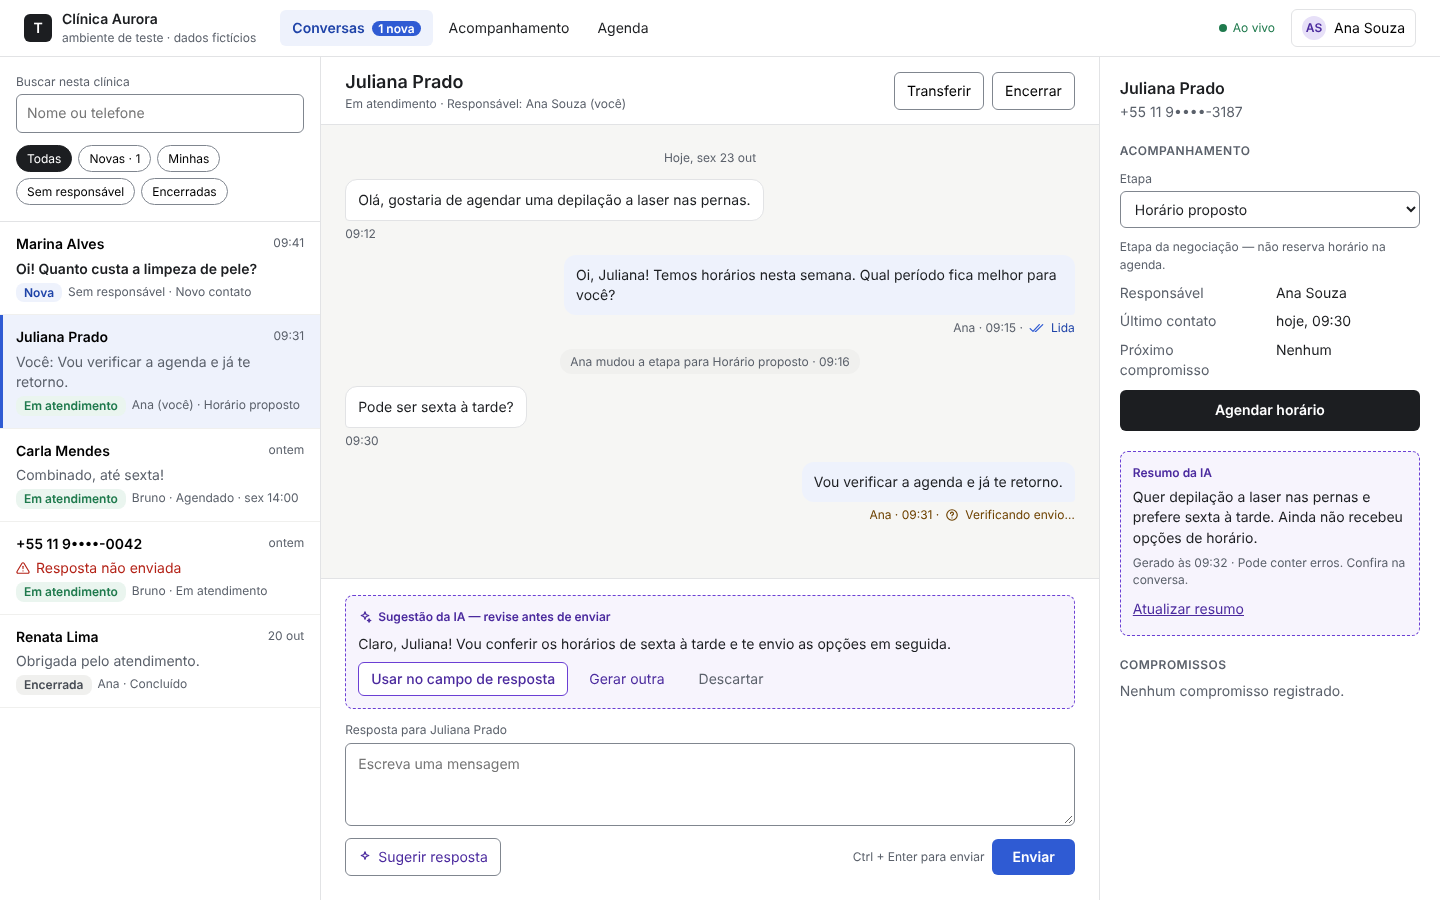
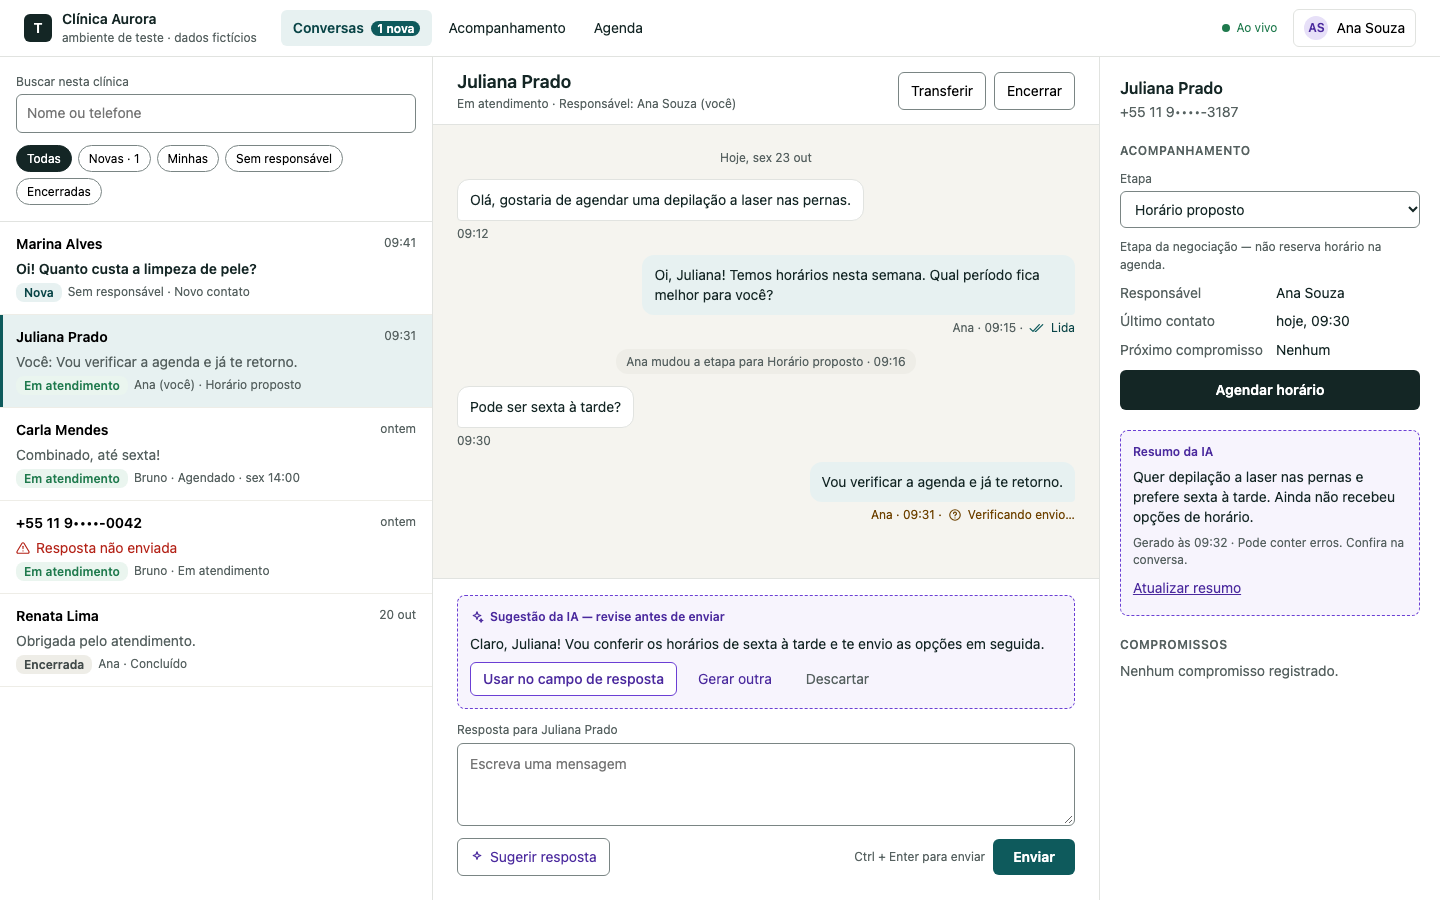
feat(ui): coluna de conversas no desktop com 30% da janela (360–520 px)
Medido no WhatsApp Web (lista em 30%, 518 px a 1728 px). Substitui os
360 px fixos; atualiza DEC-068, ux-ui.md, mock e preview Main.

diff --git a/docs/design/desktop/Main.dc.html b/docs/design/desktop/Main.dc.html
@@ -37,7 +37,7 @@ button:focus-visible,a:focus-visible,textarea:focus-visible,select:focus-visible
 
 <main style="flex: 1; display: flex; flex-wrap: wrap; min-height: 0">
 
-<section aria-label="Lista de conversas" style="flex: 1 1 320px; max-width: 360px; background: #FFFFFF; border-right: 1px solid #E1E3E0; display: flex; flex-direction: column">
+<section aria-label="Lista de conversas" style="flex: 0 0 30%; min-width: 360px; max-width: 520px; background: #FFFFFF; border-right: 1px solid #E1E3E0; display: flex; flex-direction: column">
 <div style="padding: 16px; display: flex; flex-direction: column; gap: 12px; border-bottom: 1px solid #E1E3E0">
 <label style="display: flex; flex-direction: column; gap: 4px; font-size: 12px; color: #566160">Buscar nesta clínica
 <input type="search" placeholder="Nome ou telefone" style="padding: 8px 10px; border: 1px solid #7A8584; border-radius: 6px; font-size: 14px; color: #142625"></label>

diff --git a/src/client/ui/panel.css b/src/client/ui/panel.css
@@ -6160,7 +6160,7 @@
   }
 
   .conversas-3col {
-    grid-template-columns: minmax(300px, 360px) minmax(var(--conversas-thread-min), 1fr);
+    grid-template-columns: clamp(360px, 30vw, 520px) minmax(var(--conversas-thread-min), 1fr);
   }
 
   .conversas-list-head {
@@ -6210,7 +6210,7 @@
  * leitura desliza para a esquerda para não ficar tapada. Sem «reduzir movimento», sem animação. */
 .conversas-3col,
 .conversas-3col:not(.conversas-3col--drawer) {
-  grid-template-columns: minmax(280px, 360px) minmax(var(--conversas-thread-min), 1fr);
+  grid-template-columns: clamp(360px, 30vw, 520px) minmax(var(--conversas-thread-min), 1fr);
 }
 
 .conversas-3col-thread {

diff --git a/docs/product/decisions.md b/docs/product/decisions.md
@@ -63,7 +63,7 @@
 | DEC-065 | Confirmado | «Detalhes» do Pix pendente | O que abre o link da faixa de Pix pendente na conversa? | Folha com valor, prazo e horário ainda não reservado, com **Reenviar cobrança** e **Cancelar cobrança**. Não altera DEC-047 (sem reserva antes do Pix) nem DEC-058 (texto fixo). | Paulo, 28/10/2026 (recomendação aprovada). Desenho da folha: pendente. |
 | DEC-066 | Confirmado | Encerrar não move a etapa | Encerrar a conversa move a oportunidade para «Concluído»? | Encerrar altera só o estado da conversa; a etapa não muda. «Perdido» continua manual (DEC-062). | Paulo, 28/10/2026 (recomendação aprovada). |
 | DEC-067 | Decidido (28/10/2026, Paulo, D-20261028-201300-CUR) | Proteção da equipe: imagens, sinalização e pausa | Imagens ocultas por padrão e buscadas só ao tocar em «Ver», legenda separada; imagens nunca vão à IA (DEC-011). Sinalização, ocultação e pausa humanas, sem obrigar abertura; detector só alerta, sujeito a revisão. Pausa/bloqueio negam ações novas no backend (S2 #173, S5 #176). Não altera DEC-046(c). Decididos: permissões de retomada (P-1), alcance/retenção (P-2), aviso à responsável (P-3). [Detalhe](protecao-equipe.md). | Pedido de Paulo, 28/10/2026 ([épico #182](https://github.com/intentzero/tredane/issues/182), [P1 #183](https://github.com/intentzero/tredane/issues/183)). |
-| DEC-068 | Confirmado | Moldura única do desktop (≥ 1280 px) | Como organizar as áreas no desktop sem que a página mude de moldura ao abrir uma conversa? | Todas as áreas usam menu lateral fixo de 84 px, barra superior e área de trabalho; as Conversas mantêm a lista na mesma coluna em `/conversas` e `/conversas/:id`, com a linha aberta marcada (`aria-current`) e o estado «Escolha uma conversa». A coluna de contexto da **Agenda** (Agendar, mês, filtros por profissional e sala, lista do dia) está implementada ([#242](https://github.com/intentzero/tredane/pull/242), épico [#235](https://github.com/intentzero/tredane/issues/235)); a da Clínica foi entregue pela [#244](https://github.com/intentzero/tredane/pull/244) (issue #226). **Em aberto:** verificação em staging das duas (cota do Durable Object esgotada em 29/10/2026); sino e conta no fim do menu. Abaixo de 1280 px nada muda. | Paulo, 29/10/2026 (pedido de implementação do épico [#207](https://github.com/intentzero/tredane/issues/207); issue #211). Altera 3.1. |
+| DEC-068 | Confirmado | Moldura única do desktop (≥ 1280 px) | Como organizar as áreas no desktop sem que a página mude de moldura ao abrir uma conversa? | Todas as áreas usam menu lateral fixo de 84 px, barra superior e área de trabalho; as Conversas mantêm a lista na mesma coluna (largura revista em 29/10/2026 a pedido de Paulo: 30% da janela, mín. 360 e máx. 520 px, em vez de 360 px fixos) em `/conversas` e `/conversas/:id`, com a linha aberta marcada (`aria-current`) e o estado «Escolha uma conversa». A coluna de contexto da **Agenda** (Agendar, mês, filtros por profissional e sala, lista do dia) está implementada ([#242](https://github.com/intentzero/tredane/pull/242), épico [#235](https://github.com/intentzero/tredane/issues/235)); a da Clínica foi entregue pela [#244](https://github.com/intentzero/tredane/pull/244) (issue #226). **Em aberto:** verificação em staging das duas (cota do Durable Object esgotada em 29/10/2026); sino e conta no fim do menu. Abaixo de 1280 px nada muda. | Paulo, 29/10/2026 (pedido de implementação do épico [#207](https://github.com/intentzero/tredane/issues/207); issue #211). Altera 3.1. |
 | DEC-069 | Confirmado | Painel de detalhe deslizante por cima | O detalhe da direita empurra a área de trabalho ou desliza por cima? | No desktop o painel de 380 px entra da direita por cima, em 200 ms, sem véu; não bloqueia a área; fecha com ×, Esc ou novo toque no item; o foco vai ao painel e volta ao item; sem animação com «reduzir movimento». Nas Conversas a coluna de leitura desliza para a esquerda para não esconder mensagens nem o campo de escrita; a escolha de abrir ou fechar fica lembrada. Celular: sem mudança. O compromisso da **Agenda** abre assim no desktop ([#245](https://github.com/intentzero/tredane/pull/245)); cancelar o compromisso pede nova leitura da grade. **Em aberto:** a edição da Clínica ainda abre em tela cheia (E4, [#239](https://github.com/intentzero/tredane/issues/239)); verificação em staging do painel da Agenda. | Paulo, 29/10/2026 (issue #212). Altera DEC-064 só no formato do painel, não no conteúdo. |
 | DEC-070 | Confirmado | Logotipo oficial no painel | Onde aparece a marca no painel? | Símbolo de 32 px no cabeçalho (celular) e de 40 px no menu lateral (desktop), logotipo horizontal em «Entrar» e empilhado em «Escolha a clínica», usando os ficheiros de `docs/design/brand` sem alterar cor, proporção nem espaçamento (DEC-050). **Em aberto, decisão de Paulo:** Areia `#F4F1EA` do kit vs fundo `#F5F4EF` dos tokens. | Paulo, 29/10/2026 (issue #209). |
 | DEC-071 | Confirmado | Seletor de clínica em dropdown | Trocar de clínica exige abrir a página inteira? | Com 2 ou mais clínicas, o nome no topo abre um menu (desktop) ou folha de baixo (celular) com as clínicas da pessoa, o papel em cada uma e ✓ na atual; com uma só, é texto. A troca navega para a rota da mesma área na clínica nova e o roteador chama o `selectTenant` (DEC-017: revalida o acesso, limpa cache e conexões da clínica anterior; chamá-lo antes de navegar fazia o roteador desfazer a troca, #231); na clínica onde é atendente, a área Clínica abre em Conversas. **Em aberto:** busca a partir de 7 clínicas; contagem de conversas novas nas outras clínicas (leitura de outra clínica fora da sessão ativa); aviso específico e regresso automático quando o acesso foi retirado. | Paulo, 29/10/2026 (issue #210). Preserva DEC-017. |

diff --git a/docs/product/ux-ui.md b/docs/product/ux-ui.md
@@ -60,7 +60,7 @@ TEL-07 Estados globais: conexão, sincronização, acesso revogado, erro de carr
 | --- | --- | --- | --- | --- |
 | Base (360–767 px) | Barra inferior com Conversas, Acompanhamento e Agenda (e **Clínica**, só para o responsável); badge de novas conversas. | Lista em tela cheia → conversa em tela cheia (sem barra inferior) → “Detalhes” em tela própria. | Abas roláveis por etapa; cartões em lista; mover pelo botão **Mover** em folha inferior. | Lista cronológica do dia com filtros por profissional e sala; espaços livres com **Agendar**. |
 | Tablet (≥ 768 px) | Barra lateral compacta. | Lista + conversa lado a lado; detalhes em gaveta. | Quadro com rolagem horizontal. | Grade com colunas por recurso. |
-| Desktop (≥ 1280 px) | **Confirmado (DEC-068):** menu lateral fixo de 84 px com o símbolo (DEC-070), barra superior com título, clínica e «Ao vivo». | Lista (360 px) e conversa; contato num painel por cima (DEC-069). `/conversas` e `/conversas/:id` partilham a moldura. | **Confirmado (DEC-072):** quadro em largura total sem coluna de contexto, filtros no topo, contato por cima. Sem arrastar (DEC-062). | **Confirmado (DEC-068/069), implementado:** coluna de 360 px com Agendar, mês pequeno, filtros por profissional e sala e a lista do dia; grade ao lado; o compromisso abre por cima (380 px, Esc/×). A faixa da semana sai neste tamanho. **Em aberto:** verificação em staging (E6, [#241](https://github.com/intentzero/tredane/issues/241)). |
+| Desktop (≥ 1280 px) | **Confirmado (DEC-068):** menu lateral fixo de 84 px com o símbolo (DEC-070), barra superior com título, clínica e «Ao vivo». | Lista com 30% da janela (mín. 360, máx. 520 px; medido no WhatsApp Web em 29/10/2026, pedido de Paulo) e conversa; contato num painel por cima (DEC-069). `/conversas` e `/conversas/:id` partilham a moldura. | **Confirmado (DEC-072):** quadro em largura total sem coluna de contexto, filtros no topo, contato por cima. Sem arrastar (DEC-062). | **Confirmado (DEC-068/069), implementado:** coluna de 360 px com Agendar, mês pequeno, filtros por profissional e sala e a lista do dia; grade ao lado; o compromisso abre por cima (380 px, Esc/×). A faixa da semana sai neste tamanho. **Em aberto:** verificação em staging (E6, [#241](https://github.com/intentzero/tredane/issues/241)). |
 
 Regras comuns:
 - Alvos de toque ≥ 44 × 44 px; ações principais (Enviar, Agendar, Confirmar) ficam na zona inferior da tela, alcançáveis com o polegar.
@@ -81,7 +81,7 @@ Cada tela lista jornada e requisitos de origem, conteúdo, ações, eventos em t
 
 **Origem:** JRN-01, JRN-02, JRN-04; REQ-010, REQ-011, REQ-012, REQ-020, REQ-021, REQ-022. **Estado:** Proposto.
 
-No celular, três telas encadeadas: lista (M-01) → conversa (M-02) → detalhes do contato e oportunidade (M-03), aberta ao tocar no nome no cabeçalho da conversa. No tablet, lista e conversa ficam lado a lado e os detalhes viram gaveta; no desktop (≥ 1280 px), lista de 360 px e conversa fluida, com o contato num painel de 380 px que desliza por cima (DEC-069; substitui a terceira coluna de 320 px).
+No celular, três telas encadeadas: lista (M-01) → conversa (M-02) → detalhes do contato e oportunidade (M-03), aberta ao tocar no nome no cabeçalho da conversa. No tablet, lista e conversa ficam lado a lado e os detalhes viram gaveta; no desktop (≥ 1280 px), lista com 30% da janela (360–520 px) e conversa fluida, com o contato num painel de 380 px que desliza por cima (DEC-069; substitui a terceira coluna de 320 px).
 
 **Lista de conversas**
 - Item: nome do contato (ou telefone mascarado quando não houver nome), trecho da última mensagem, horário relativo, estado da conversa (Nova / Em atendimento / Encerrada), avatar ou iniciais do responsável atribuído, etapa da oportunidade.

diff --git a/docs/design/CHANGELOG.md b/docs/design/CHANGELOG.md
@@ -3,6 +3,10 @@
 Registra mudanças nos tokens e nos mocks. Mais recente primeiro. IDs de telas não são renumerados.
 
 
+## 29/10/2026 — Coluna de Conversas com 30% da janela
+
+- Desktop: a lista deixa de ter 360 px fixos e passa a `30%` da janela, mín. 360 e máx. 520 px (medido no WhatsApp Web: 518 px a 1728 px). Mock `desktop/Main.dc.html` atualizado; preview `Main.png` regerado.
+
 ## 29/10/2026 — Redesenho do horário da clínica (#207, #224)
 
 - **M-17 Horários** refeito: resumo, sete dias com editor único, folgas e fechamentos na mesma página, barra de salvar condicional. Novos: **M-49** (editar um dia), **M-50** (folga ou fechamento), **M-51** (quem fica fora). Desktop: `desktop/Horarios` na moldura #211 com painel #212 (**Proposto**, ainda não implementado).
